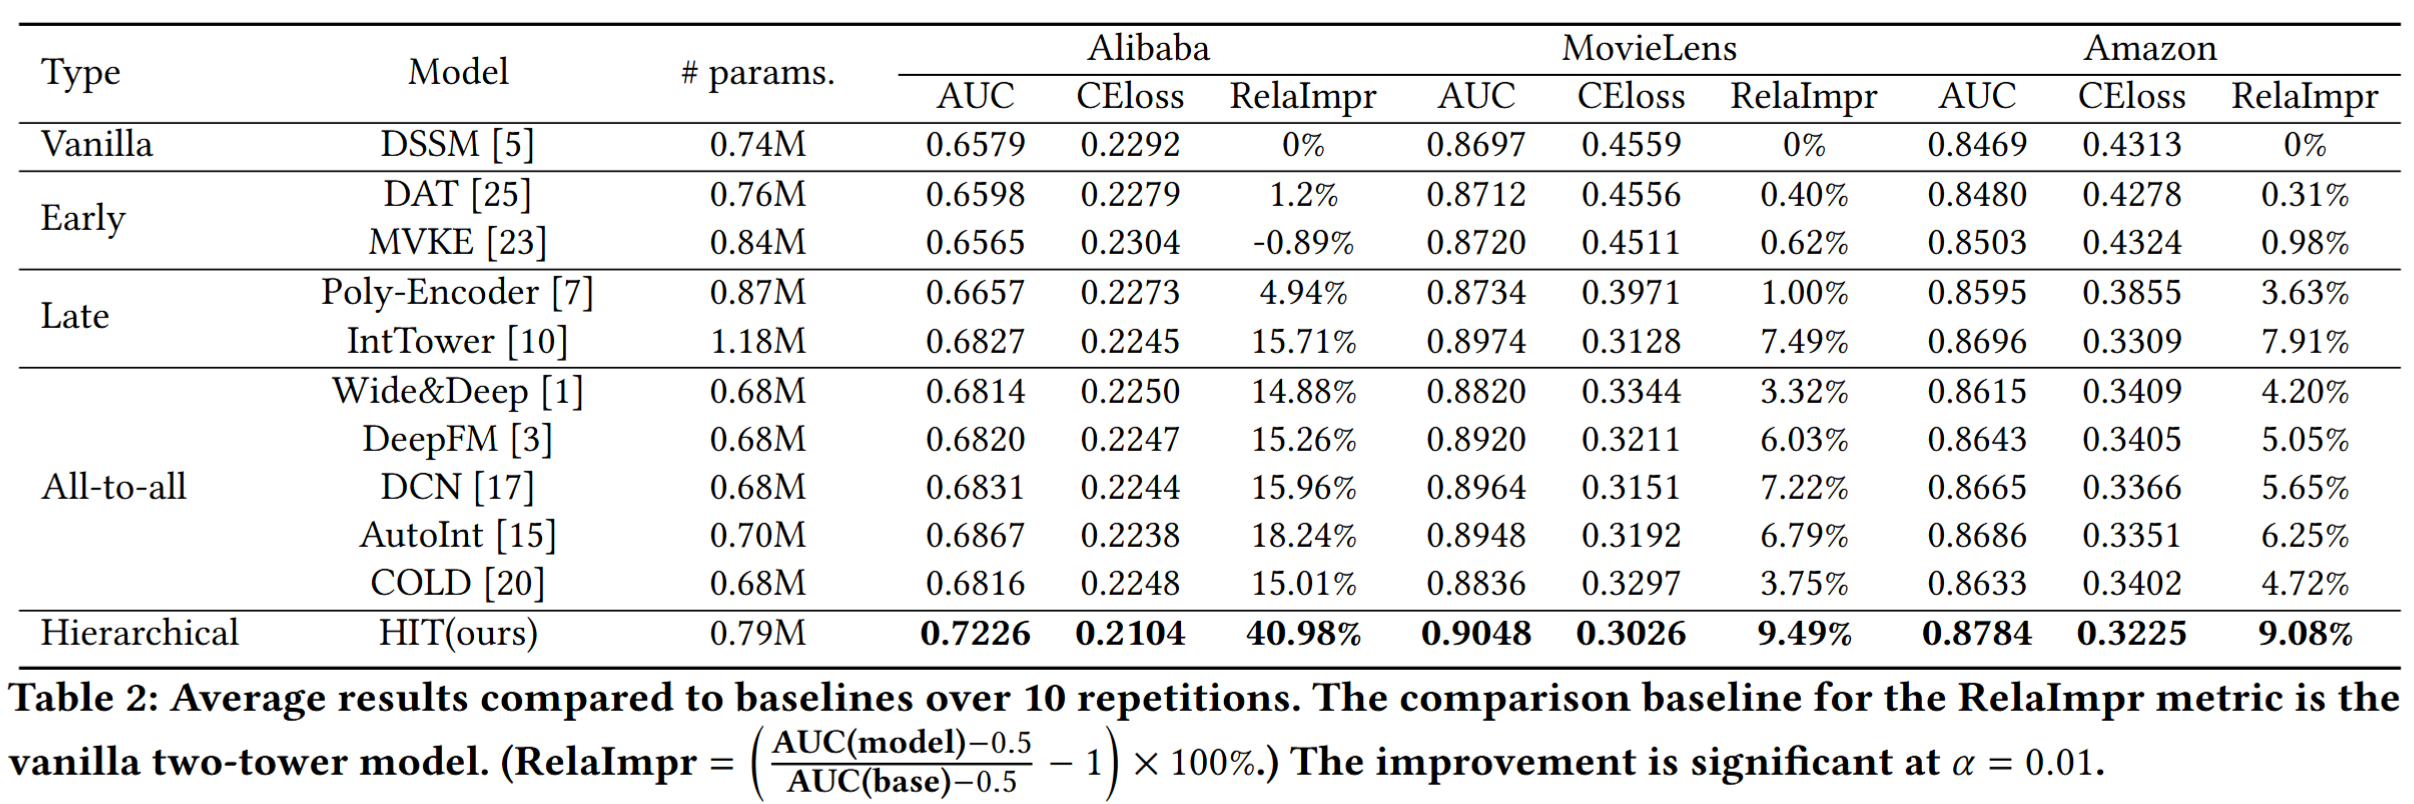
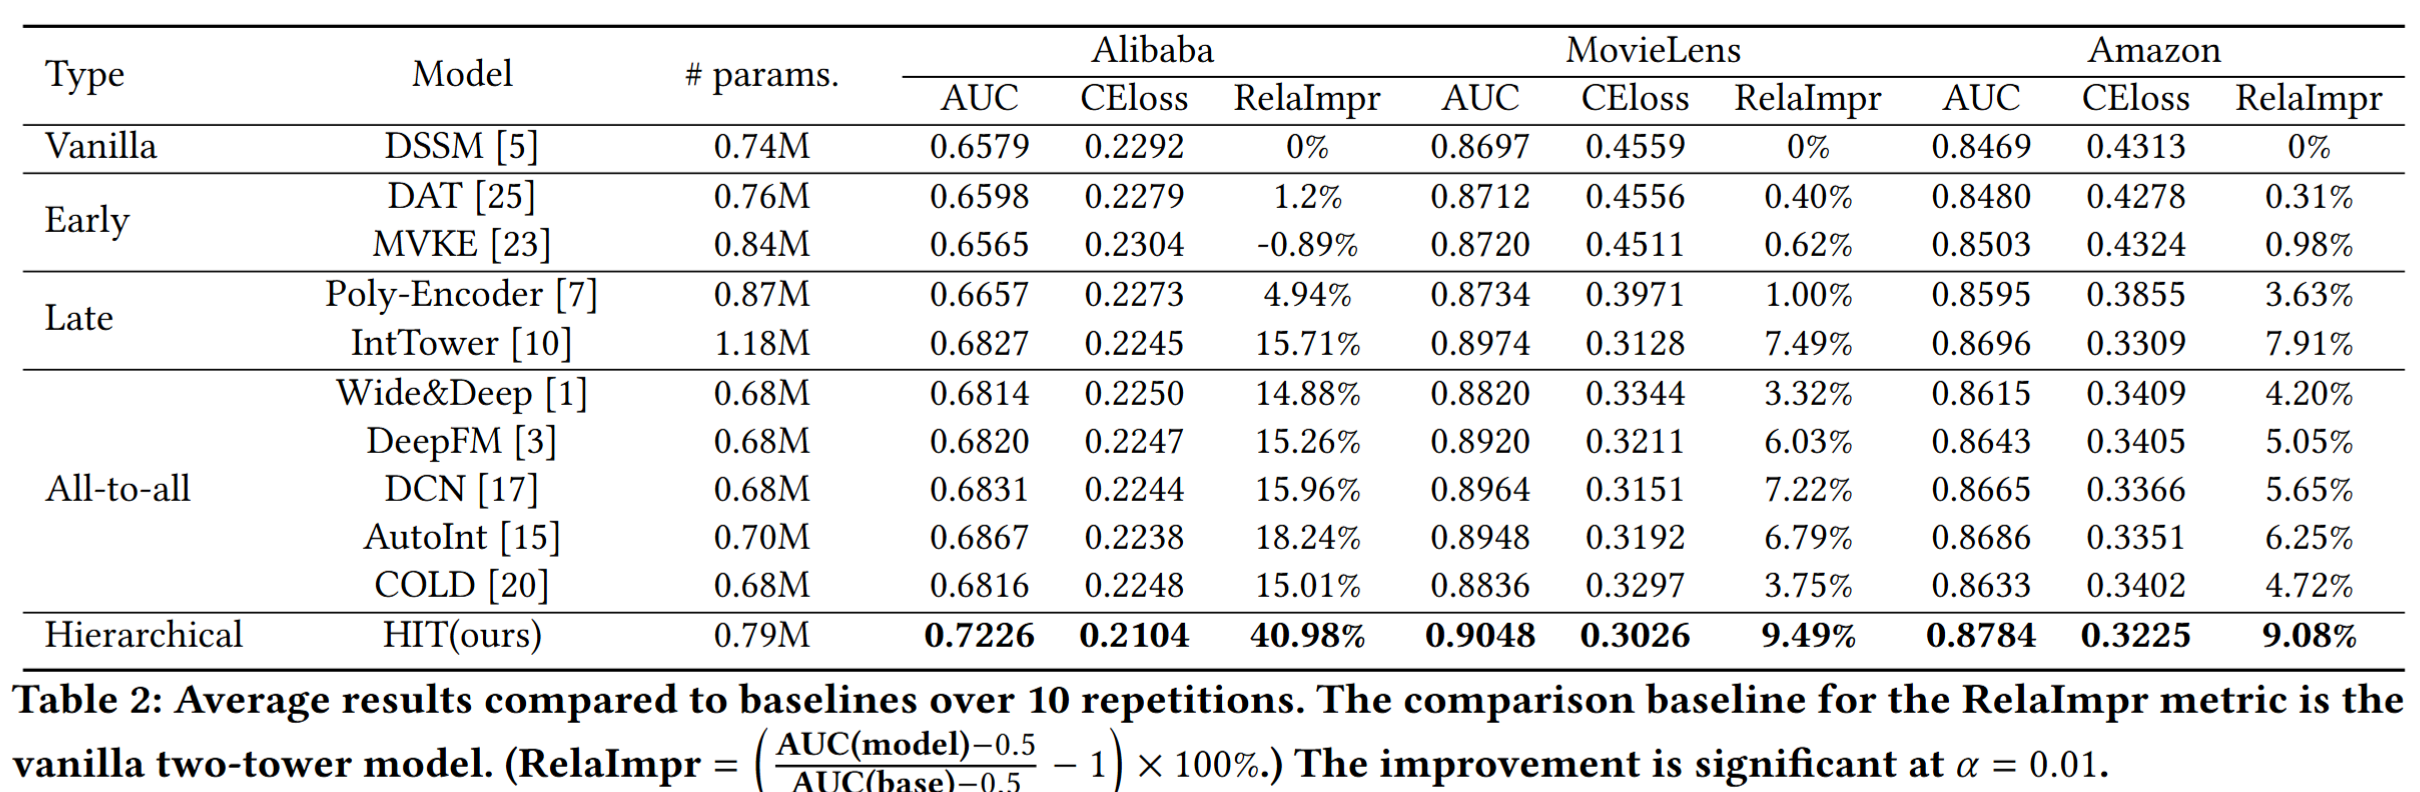
1
1

Changed region(s): [[0.0, 0.0, 0.9942, 1.0], [0.0, 0.5758, 0.0932, 0.6364]]

diff --git a/README.md b/README.md
@@ -51,4 +51,4 @@ python train_movielens_whole_models.py --model_name hit
   
   
  # [Performance](#contents)
- ![avatar](./figure/performance.png)
+ ![avatar](./figure/performance.PNG)
